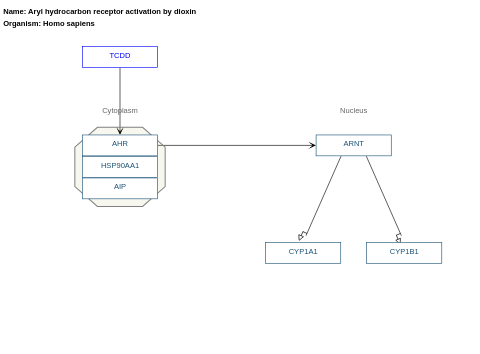
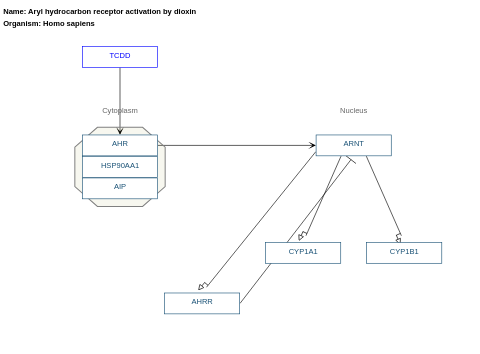
Add files for approved pathway WP5429

diff --git a/pathways/WP5429/WP5429.md b/pathways/WP5429/WP5429.md
@@ -8,7 +8,7 @@ description: The environmental contaminant 2,3,7,8-tetrachlorodibenzo-p-dioxin (
   binds the aryl hydrocarbon receptor (AHR), which is held in the cytoplasm by HSP90
   and the co-chaperone AIP. Ligand binding releases the receptor, which moves to the
   nucleus, dimerises with ARNT and induces the xenobiotic-metabolising enzymes CYP1A1
-  and CYP1B1 in human cells.
+  and CYP1B1 and the repressor AHRR in human cells.
 last-edited: 2026-11-19
 ndex: null
 organisms:
@@ -16,8 +16,8 @@ organisms:
 redirect_from:
 - /index.php/Pathway:WP5429
 - /instance/WP5429
-- /instance/WP5429_r20261119150524
-revision: r20261119150524
+- /instance/WP5429_r20261119152201
+revision: r20261119152201
 schema-jsonld:
 - '@context': https://schema.org/
   '@id': https://wikipathways.github.io/pathways/WP5429.html
@@ -29,9 +29,10 @@ schema-jsonld:
     binds the aryl hydrocarbon receptor (AHR), which is held in the cytoplasm by HSP90
     and the co-chaperone AIP. Ligand binding releases the receptor, which moves to
     the nucleus, dimerises with ARNT and induces the xenobiotic-metabolising enzymes
-    CYP1A1 and CYP1B1 in human cells.
+    CYP1A1 and CYP1B1 and the repressor AHRR in human cells.
   keywords:
   - AHR
+  - AHRR
   - AIP
   - ARNT
   - CYP1A1
